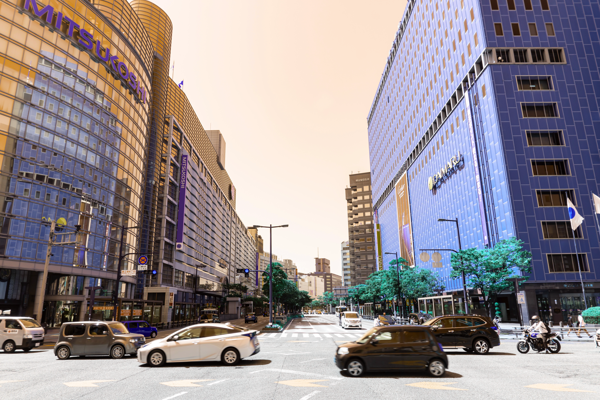
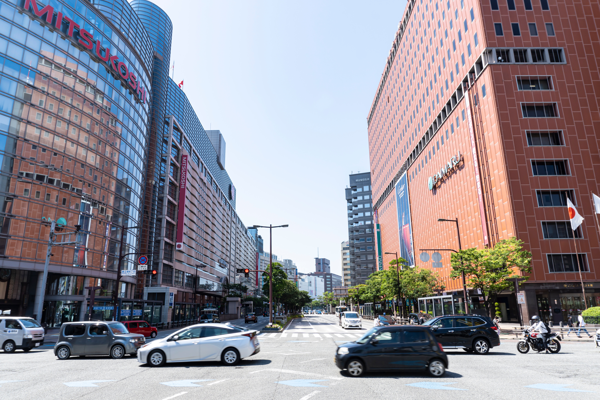
bgr to rgb

diff --git a/derm_tiff/derm_tiff_image.py b/derm_tiff/derm_tiff_image.py
@@ -17,13 +17,6 @@ from typing import Any, List, Generator, Tuple
 from .io import make_parent_dir
 
 
-def _tiffFrameGenerator(tiff_image: Image.Image,
-                        ) -> Generator[Image.Image, None, None]:
-    for i in range(tiff_image.n_frames):
-        tiff_image.seek(i)
-        yield tiff_image
-
-
 class DermTiffImage:
     def __init__(self,
                  bg_image: NDArray[Shape["*, *, 3"], np.uint8],  # [H, W, C]
@@ -78,7 +71,8 @@ class DermTiffImage:
         for label in label_list:
             mask = self.label2mask[label]
             color = np.array(self.label2color[label], dtype=float)
-            annotated_image[mask] = (1.0 - alpha) * annotated_image[mask] + alpha * color
+            annotated_image[mask] = (1.0 - alpha) * \
+                annotated_image[mask] + alpha * color
 
         annotated_image = np.clip(
             annotated_image,
@@ -121,29 +115,30 @@ class DermTiffImage:
 
         _start_time = time.time()
 
-        array = cv2.cvtColor(self.bg_image, cv2.COLOR_BGR2RGBA)
+        array = cv2.cvtColor(self.bg_image, cv2.COLOR_RGB2RGBA)
         array[:, :, 3] = 255
         bg_image = Image.fromarray(array)
 
         frame_list = []
-        for label, mask in self.label2mask.items():
-            H, W = mask.shape
+        for label in self.labels:
             color = self.label2color[label]
+            mask = self.label2mask[label]
 
-            # BGR array
+            # RGBarray
+            H, W = mask.shape
             array = 255 * np.ones([H, W, 3], dtype=np.uint8)
             array[mask] = np.array(color, np.uint8)
 
             # RGBA array
-            array = cv2.cvtColor(array, cv2.COLOR_BGR2RGBA)
+            array = cv2.cvtColor(array, cv2.COLOR_RGB2RGBA)
             array[:, :, 3] = 255 * mask.astype(np.uint8)
 
             # Image
             image = Image.fromarray(array)
-            B, G, R = color
+            R, G, B = color
 
             tiffinfo = ImageFileDirectory_v1()
-            tiffinfo[285] = f'{label}/({R}, {G}, {B}, 255)'.encode("utf-8")
+            tiffinfo[285] = f'{label}/({R},{G},{B},255)'.encode("utf-8")
             image.tag = tiffinfo
 
             frame_list.append(image)
@@ -162,6 +157,13 @@ class DermTiffImage:
             print('Elapsed time: {:.1f} [s]'.format(_elapsed_time))
 
 
+def _tiffFrameGenerator(tiff_image: Image.Image,
+                        ) -> Generator[Image.Image, None, None]:
+    for i in range(tiff_image.n_frames):
+        tiff_image.seek(i)
+        yield tiff_image
+
+
 def load_image(tiff_file: str,
                verbose: bool = False,
                ) -> DermTiffImage:
@@ -171,24 +173,23 @@ def load_image(tiff_file: str,
 
     with Image.open(tiff_file) as tiff_image:
         for i, frame in enumerate(_tiffFrameGenerator(tiff_image)):
-
             frame = np.array(frame, np.uint8)
             if i == 0:
-                frame = cv2.cvtColor(frame, cv2.COLOR_RGBA2BGR)
+                frame = cv2.cvtColor(frame, cv2.COLOR_RGBA2RGB)
                 bg_image = frame
             else:
                 assert 285 in tiff_image.tag
-                # 285 : "LABEL/(R, G, B, A)"
+                # 285 : "LABEL/(R,G,B,A)"
                 label, color = tiff_image.tag[285][0].split('/')
                 color = color[1:-1].split(',')
                 assert label not in label2mask, f"frame name duplicated: {label}."
 
-                if verbose:
-                    print(f'{i:2d}: Frame name = {label}, Color = {color}')
-
                 R, G, B, _ = map(int, color)
                 label2mask[label] = frame[:, :, 3] != 0
-                label2color[label] = (B, G, R)
+                label2color[label] = (R, G, B)
+
+                if verbose:
+                    print(f'{i:2d}: Frame name = {label}, Color = {color}')
 
     return DermTiffImage(bg_image,
                          label2mask,

diff --git a/example/example.py b/example/example.py
@@ -5,6 +5,10 @@ import numpy as np
 
 
 def main():
+    derm_image = load_image("example/imgs/raw.tiff")
+    derm_image = derm_image.resize(600, 400)
+    derm_image.save("example/imgs/input.tiff")
+
     # DermAnnotationで作成されたTIFF画像を開く
     derm_image = load_image("example/imgs/input.tiff")
 

diff --git a/example/example.md b/example/example.md
@@ -14,6 +14,7 @@ print(labels)  # ['Pencil1', 'Pencil2', 'Pencil3']
 ```py
 for label in labels:
     img = derm_image.get_annotation_image([label], alpha=0.5)
+    Image.fromarray(img).show()
 ```
 ![Pencil1](imgs/with_Pencil1.png)![Pencil2](imgs/with_Pencil2.png)![Pencil3](imgs/with_Pencil3.png)
 
